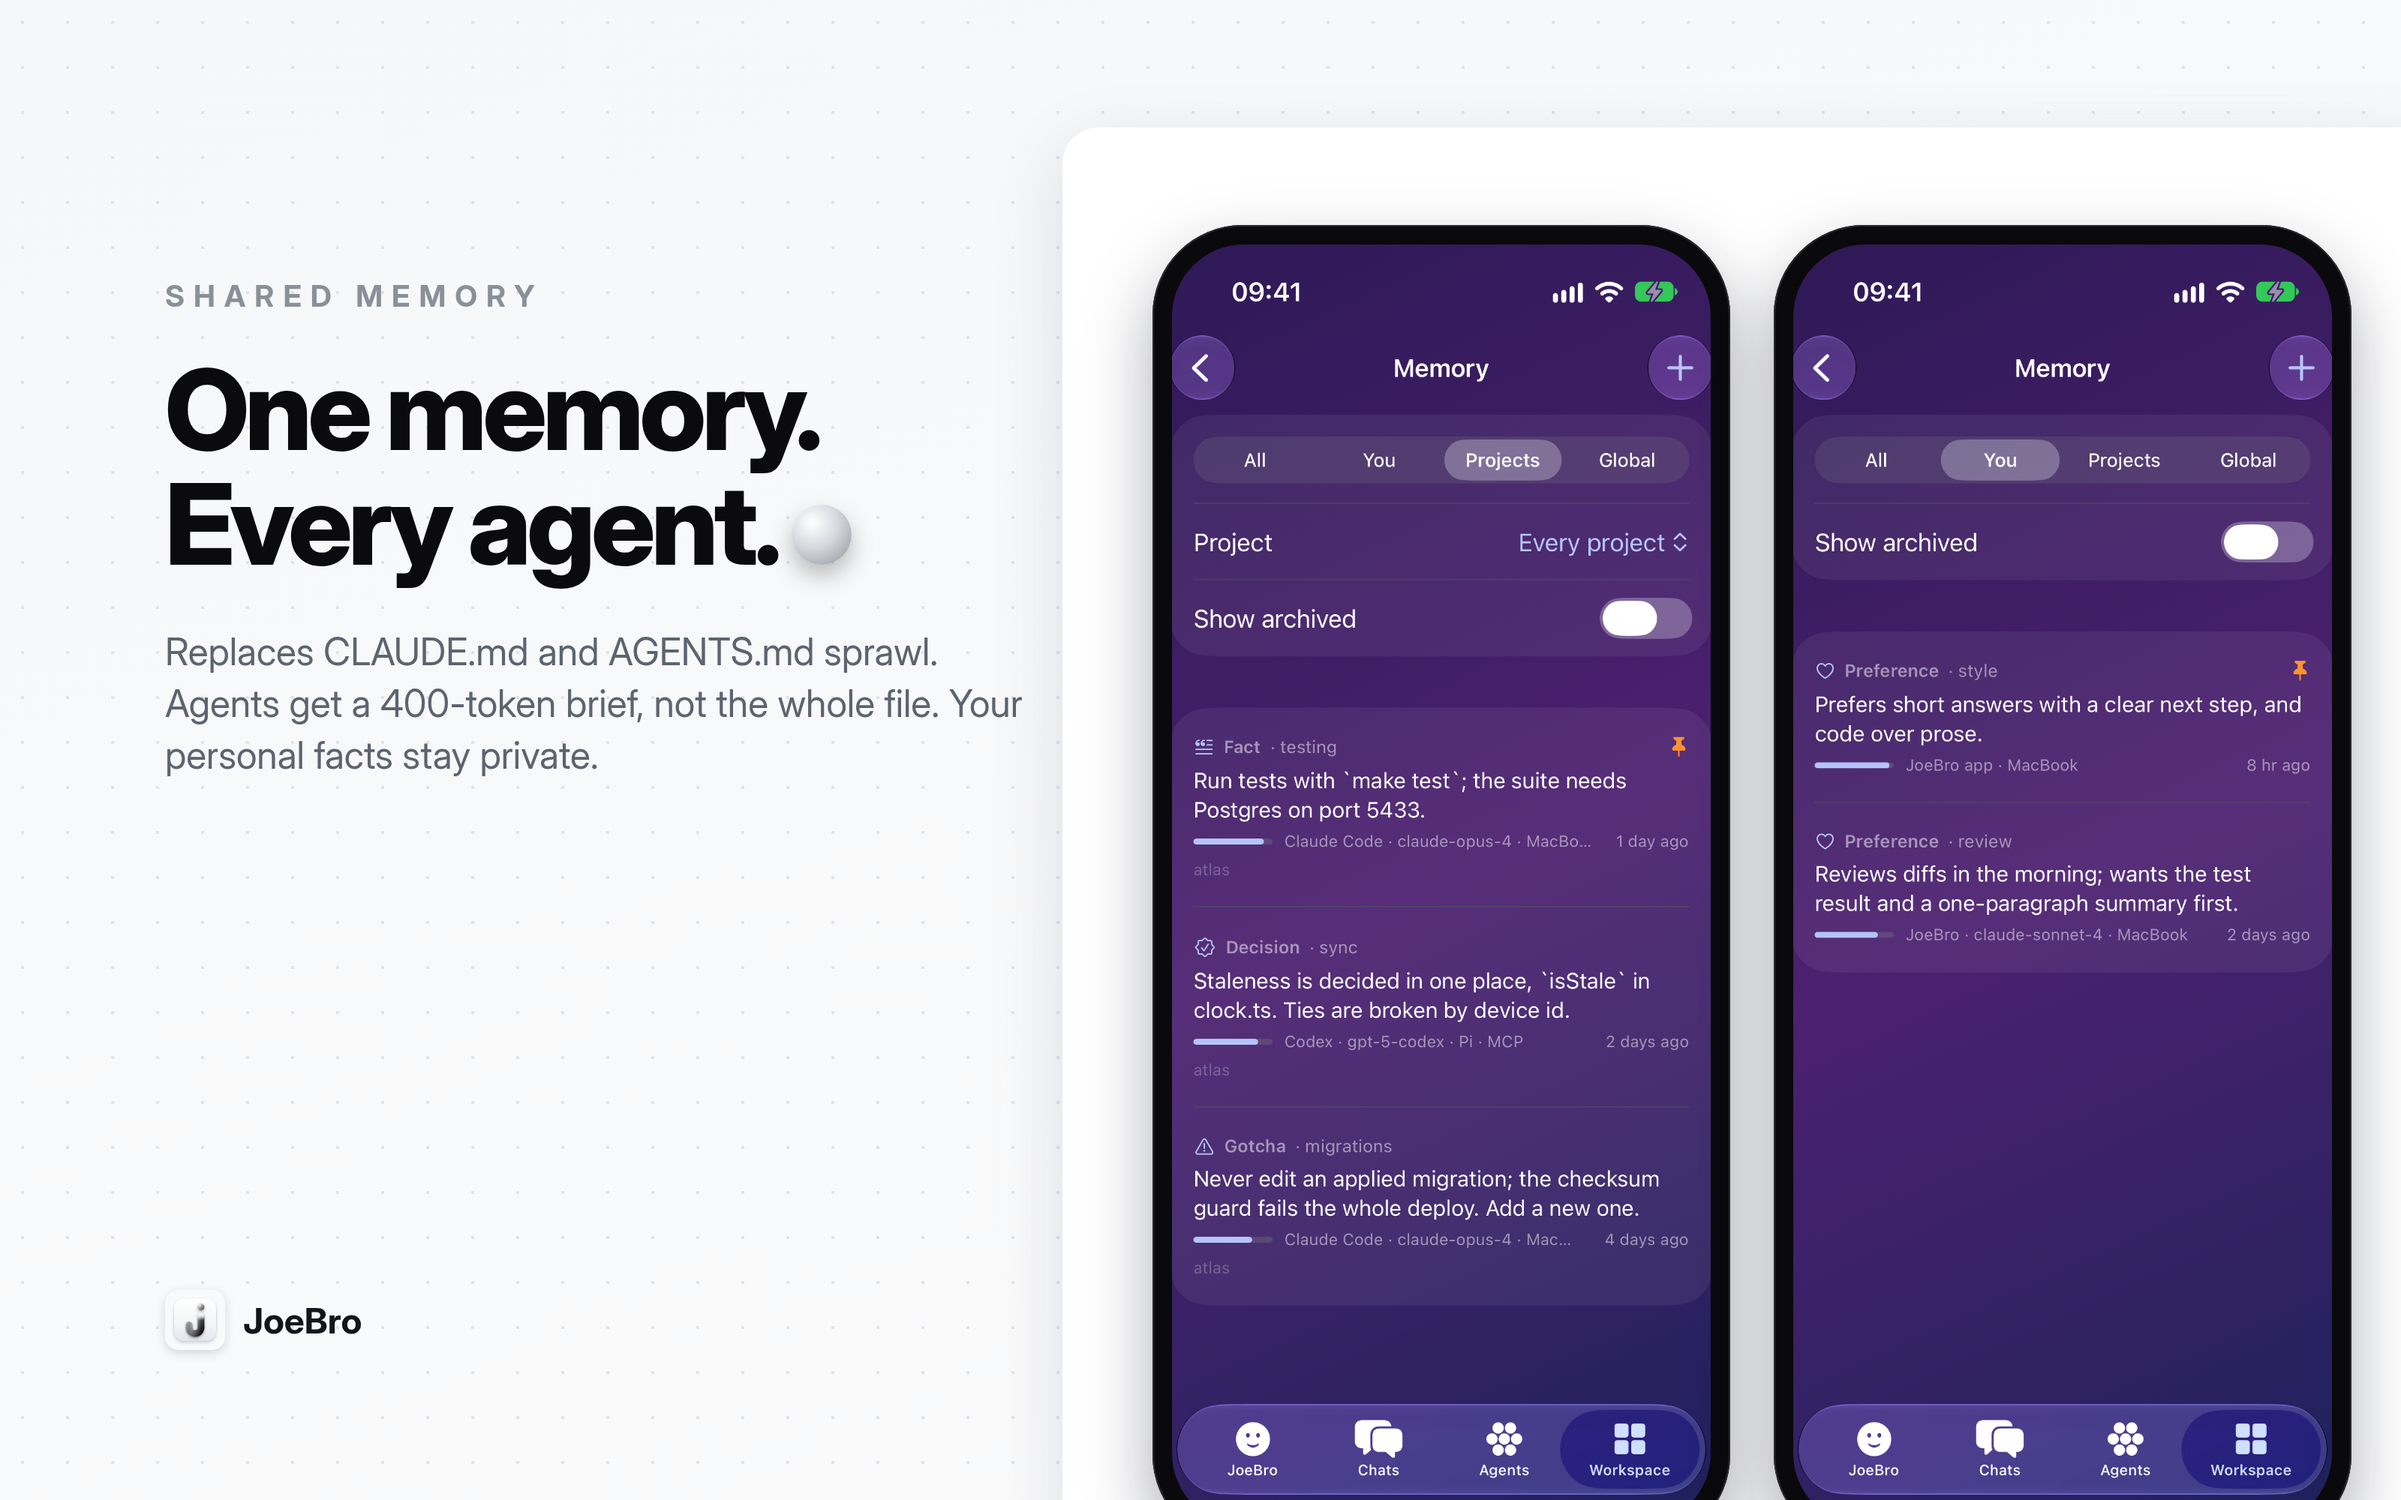
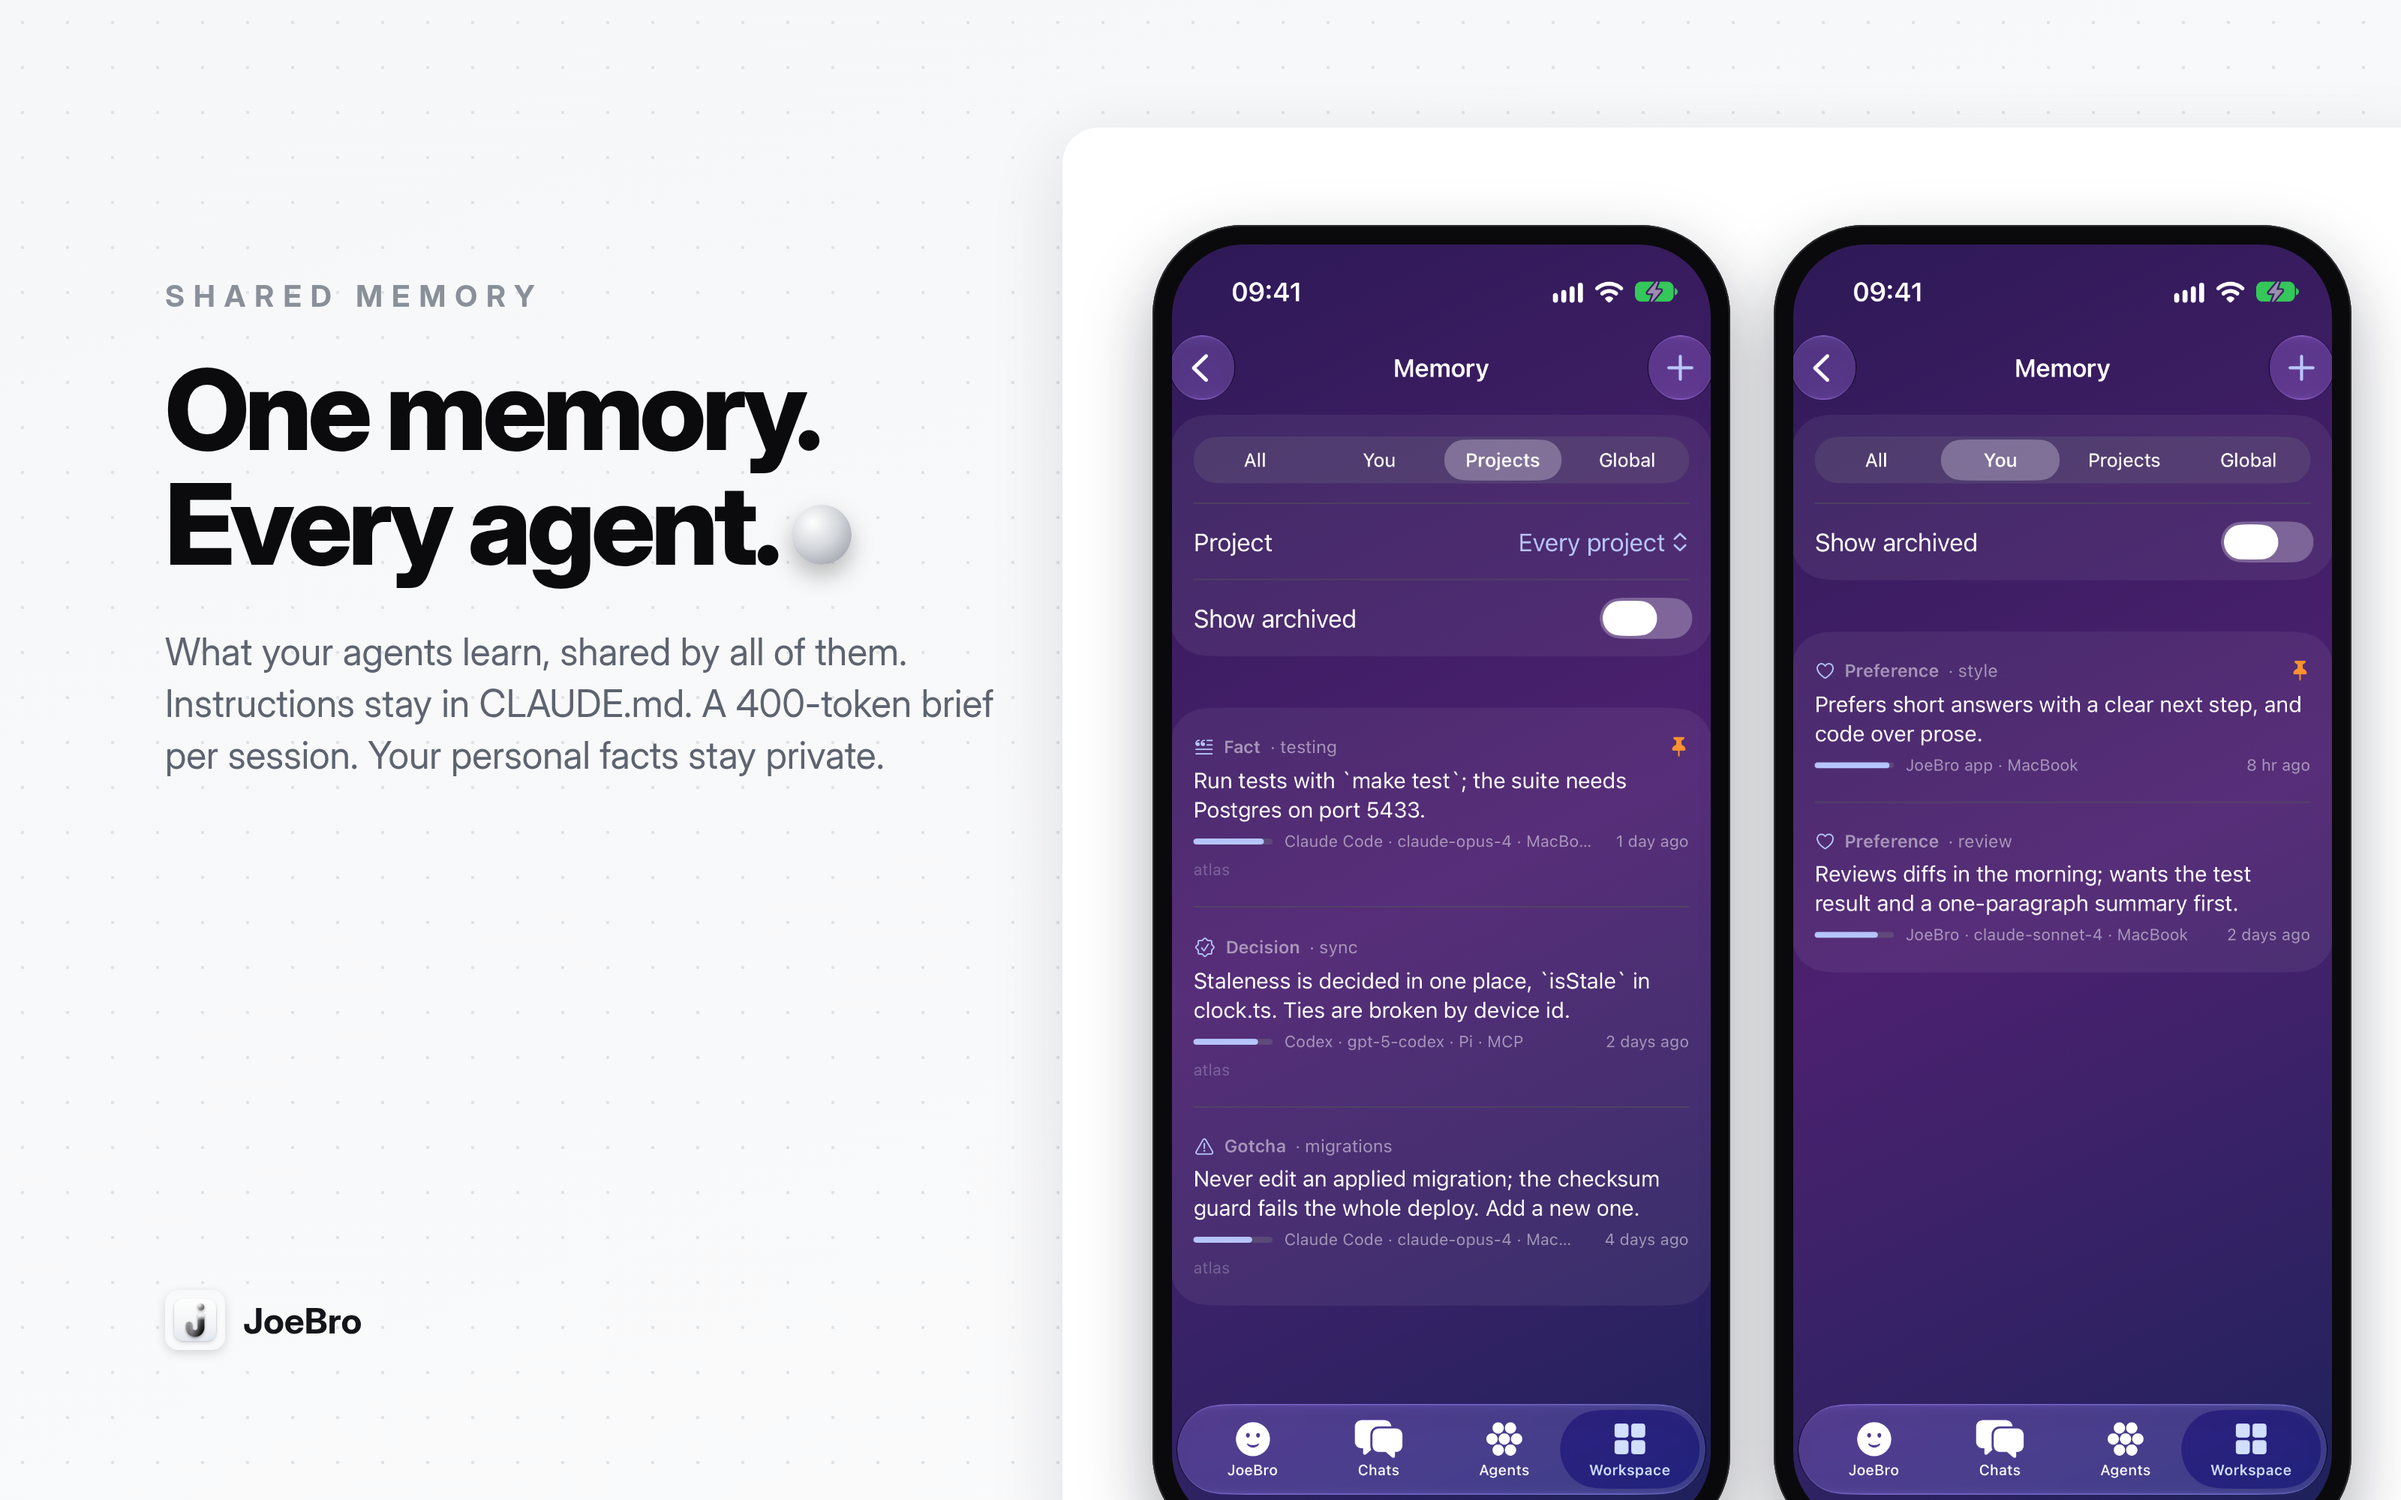
README: Shared Memory holds what agents learn; CLAUDE.md and AGENTS.md instructions stay

Changed region(s): [[0.0625, 0.403, 0.4375, 0.527]]

diff --git a/README.md b/README.md
@@ -25,7 +25,7 @@ JoeBro puts them in one place. Link them once with [joebro-plugins](https://gith
 New in 1.5:
 
 - **Night Shift.** Queue coding tasks. They run overnight, each in its own git branch, on whichever machine has the repo. In the morning you get review cards with the diff, the test result and a summary. Approve or reject from the Mac or from your iPhone lock screen. It never pushes.
-- **Shared Memory.** One project memory that every agent reads and writes over MCP. It replaces CLAUDE.md and AGENTS.md sprawl.
+- **Shared Memory.** One project memory that every agent reads and writes over MCP, for what they learn: decisions, gotchas, what was tried. Your instructions stay in CLAUDE.md and AGENTS.md.
 - **Live agents and subagents.** They appear in the Agents panel as they start, and on the phone and in the Dynamic Island, even with the app in the background.
 - **Resume.** Your personal agent can pick up a coding session. "Pick up what I was working on yesterday and add tests."
 - **Morning briefing and proactive mode** are now in the shipped app.
@@ -46,9 +46,9 @@ Night Shift never pushes. Agents run with pushing switched off, and you decide w
 
 ## Shared Memory
 
-Every agent used to keep its own notes: CLAUDE.md, AGENTS.md, rules files. They drift, they repeat each other and they get loaded in full every session.
+Agents learn things as they work: a decision, a gotcha, what was tried and didn't work. Usually that's lost when the session ends, or it gets pasted into CLAUDE.md until the file is mostly old notes. And Codex never sees what Claude Code learned.
 
-Shared Memory is one store per project. Claude Code, Codex and OpenCode read and write it over MCP. Each session starts with a short brief, capped at about 400 tokens, and agents can search for more when they need it. In testing, a 1,460-token CLAUDE.md came down to 454 tokens per session. `joebro-agents memory import --write` brings in your existing files once, backs them up, and leaves a short pointer behind. A memory file under about 450 tokens won't save you anything, so those are left alone.
+Shared Memory is one store per project. Claude Code, Codex and OpenCode read and write it over MCP. Each session starts with a short brief, capped at about 400 tokens, and agents can search for more when they need it. It holds what agents learn as they work (decisions, gotchas, what was tried), so that stops piling up in CLAUDE.md. Instructions such as build commands and conventions stay in CLAUDE.md and AGENTS.md. `joebro-agents memory import --write` moves Claude Code's learned memory across, backs it up, and adds a short pointer to CLAUDE.md and AGENTS.md without touching what's already there. Add `--include-instructions` to also copy facts out of those files; they still aren't changed.
 
 - **Strengthens with use, fades without it.** Facts that get used grow stronger. Facts that don't, fade. Nothing is deleted. Old and replaced facts stay in history and can be restored.
 - **Provenance.** Every fact shows which agent wrote it, with what model, on which machine.
